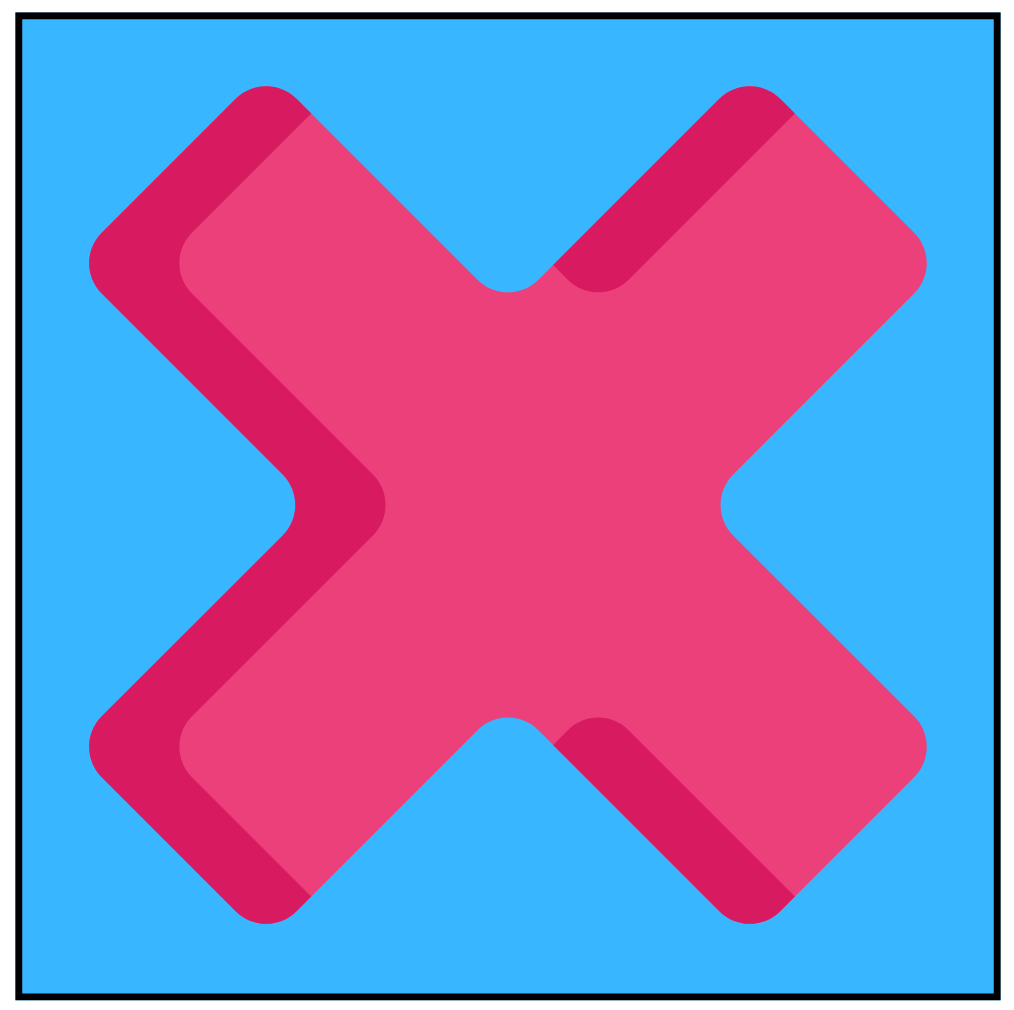
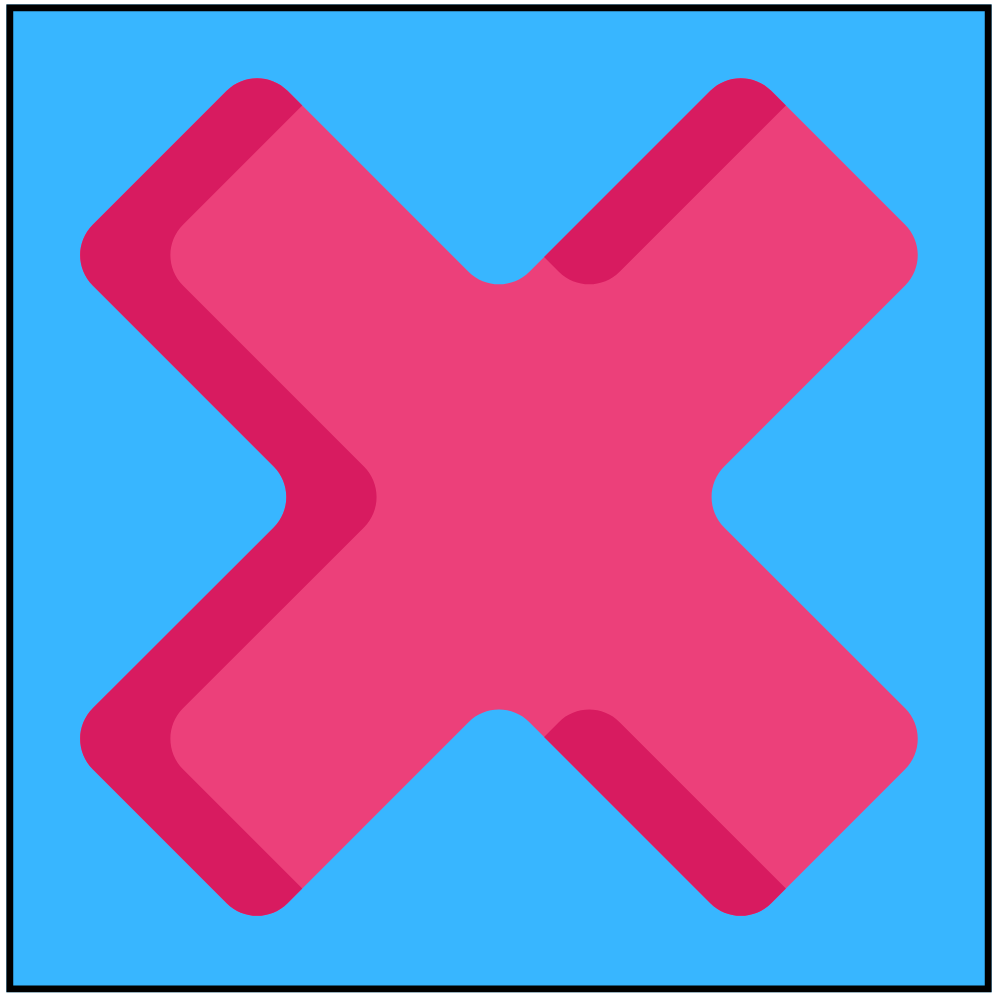
New media X for the table. New HTML% file = table.html holds the table. JS code is generating the table. PA

diff --git a/assets/script/script.js b/assets/script/script.js
@@ -1,0 +1,84 @@
+document.addEventListener('DOMContentLoaded', function() {
+    document.getElementById('form').addEventListener('submit', function(event) {
+        handleSubmit(event);
+    });
+});
+
+
+function handleSubmit(event) {
+    event.preventDefault();
+
+    // Get form inputs
+    const multiplicandFrom = document.getElementById("multiplicandFrom").value;
+    const multiplicandTo = document.getElementById("multiplicandTo").value;
+    const multiplierFrom = document.getElementById("multiplierFrom").value;
+    const multiplierTo = document.getElementById("multiplierTo").value;
+
+    // Store form inputs in localStorage
+    localStorage.setItem("multiplicandFrom", multiplicandFrom);
+    localStorage.setItem("multiplicandTo", multiplicandTo);
+    localStorage.setItem("multiplierFrom", multiplierFrom);
+    localStorage.setItem("multiplierTo", multiplierTo);
+
+    // Fetch and display table.html content
+    fetch('table.html')
+    .then(response => response.text())
+    .then(data => {
+        document.getElementById('content').innerHTML = data;
+        document.getElementById('formContainer').style.display = 'none';
+        generateTable();
+    });
+}
+
+function generateTable() {
+    // Get the form inputs from localStorage
+    const multiplicandFrom = parseInt(localStorage.getItem("multiplicandFrom"));
+    const multiplicandTo = parseInt(localStorage.getItem("multiplicandTo"));
+    const multiplierFrom = parseInt(localStorage.getItem("multiplierFrom"));
+    const multiplierTo = parseInt(localStorage.getItem("multiplierTo"));
+
+    if((multiplicandFrom >= 1 && multiplicandFrom <= 50) ||
+        (multiplicandTo >= 1 && multiplicandTo <= 50) ||
+        (multiplierFrom >= 1 && multiplierFrom <= 50) ||
+        (multiplierTo >= 1 && multiplierTo <= 50 )) {
+
+    const table = document.createElement("table");
+    table.classList.add("table", "table-bordered");
+
+    const thead = table.createTHead();
+    const headerRow = thead.insertRow();
+    const headerCell = headerRow.insertCell();
+    const img = document.createElement("img");
+    img.src = "media/tableX.png";
+    img.id = "tableImage";
+    headerCell.appendChild(img);
+
+    for (let i = multiplicandFrom; i <= multiplicandTo; i++) {
+        const cell = headerRow.insertCell();
+        cell.textContent = i;
+    }
+
+    const tbody = table.createTBody();
+    for (let i = multiplierFrom; i <= multiplierTo; i++) {
+        const row = tbody.insertRow();
+        const cell = row.insertCell();
+        cell.textContent = i;
+        for (let j = multiplicandFrom; j <= multiplicandTo; j++) {
+            const cell = row.insertCell();
+            cell.textContent = i * j;
+        }
+    }
+
+    document.getElementById("tableContent").innerHTML = "";
+    document.getElementById("tableContent").appendChild(table);
+}
+else {
+    const alert = bootstrap.Alert.getOrCreateInstance('#outOfBounds')
+    alert.close()
+}
+}
+
+function resetTable() {
+    localStorage.clear();
+    window.location.href = "index.html";
+}

diff --git a/index.html b/index.html
@@ -23,25 +23,27 @@
     <div id="titleBox">
         <img src="media/title.png" id="title" alt="Multify's logo">
     </div>
+    <!-- error -->
+
     <!-- Form -->
-    <div class="container">
-    <form class="row">
+    <div class="container" id="formContainer">
+    <form class="row" id="form" onsubmit="handleSubmit(event);">
       <h3>Enter Ranges:</h3>
         <div class="mb-3 col-md-6">
-            <label for="Multiplicant" class="form-label">Multiplicant From:</label>
-            <input type="number" class="form-control" id="exampleInputEmail1" aria-describedby="Multiplicant">
+            <label for="multiplicandFrom" class="form-label">Multiplicand From:</label>
+            <input type="number" class="form-control" id="multiplicandFrom" placeholder="Enter a Number From 1 - 50">
           </div>
           <div class="mb-3 col-md-6">
-            <label for="exampleInputPassword1" class="form-label">Multiplicant To:</label>
-            <input type="number" class="form-control" id="exampleInputPassword1">
+            <label for="multiplicandTo" class="form-label">Multiplicand To:</label>
+            <input type="number" class="form-control" id="multiplicandTo" placeholder="Enter a Number From 1 - 50">
           </div>
           <div class="mb-3 col-md-6">
-            <label for="exampleInputPassword1" class="form-label">Multiplier From:</label>
-            <input type="number" class="form-control" id="exampleInputPassword1">
+            <label for="multiplierFrom" class="form-label">Multiplier From:</label>
+            <input type="number" class="form-control" id="multiplierFrom" placeholder="Enter a Number From 1 - 50">
           </div>
           <div class="mb-3 col-md-6">
-            <label for="exampleInputPassword1" class="form-label">Multiplier To:</label>
-            <input type="number" class="mb-3 form-control" id="exampleInputPassword1">
+            <label for="multiplierTo" class="form-label">Multiplier To:</label>
+            <input type="number" class="mb-3 form-control" id="multiplierTo" placeholder="Enter a Number From 1 - 50">
           </div>
           <div class="mb-6 d-grid gap-2 d-md-flex justify-content-md-end">
           <button type="submit" class="btn btn-warning col-md-2"><strong>Submit</strong></button>
@@ -49,11 +51,14 @@
     </form>
     </div>
 </div>
+<div id="content">
+  <!-- Content from the second HTML file will be loaded here -->
+</div>
 <footer>
     <p id="copyright">&copy; 2024 Patricia Antlitz  -  
     <a href="https://github.com/patybn3" id="github" target="_blank">Github Page</a></p>
 </footer>
-     <!-- JavaScript script -->
-     <script src="assets/script/script.js"></script>
+    <!-- JavaScript script -->
+    <script src="assets/script/script.js"></script>
 </body>
 </html>

diff --git a/table.html b/table.html
@@ -1,0 +1,22 @@
+<!DOCTYPE html>
+<html lang="en">
+<head>
+    <meta charset="UTF-8">
+    <meta name="viewport" content="width=device-width, initial-scale=1.0">
+    <title>Multify</title>
+    <!-- stylesheets -->
+    <link rel="stylesheet" href="assets/css/style.css">
+     <!-- Bootstrap -->
+     <link href="https://cdn.jsdelivr.net/npm/bootstrap@5.3.3/dist/css/bootstrap.min.css" rel="stylesheet" integrity="sha384-QWTKZyjpPEjISv5WaRU9OFeRpok6YctnYmDr5pNlyT2bRjXh0JMhjY6hW+ALEwIH" crossorigin="anonymous">
+</head>
+<body>
+    <div class="d-grid col-6 col-md-4 col-lg-3 col-xl-2 mx-auto mb-3">
+        <button type="button" onclick="resetTable()" class="btn btn-warning" id="resetButton"><strong>Reset Table</strong></button>
+    </div>
+    <div id="tableBox">
+        <div id="tableContent"></div>
+    </div>
+        <!-- JavaScript script -->
+    <script src="assets/script/script.js"></script>
+</body>
+</html>

diff --git a/assets/css/style.css b/assets/css/style.css
@@ -35,7 +35,7 @@ nav {
 
 #title {
     height: 55px;
-    width: 588px;
+    width: auto;
     margin-top: 13rem;
 }
 
@@ -71,3 +71,29 @@ footer {
 #github {
     color: cyan;
 }
+
+/* table.html */
+
+#tableBox {
+    display: flex;
+    justify-content: center;
+    align-items: center;
+}
+
+#tableContent {
+    width: fit-content;
+    text-align: center;
+}
+
+table {
+    width: auto;
+}
+
+#tableImage {
+    width: 25px; /* Set the width as needed */
+    height: auto; /* Maintain aspect ratio */
+}
+
+/* #resetButton {
+    margin-top: 40px;
+} */
